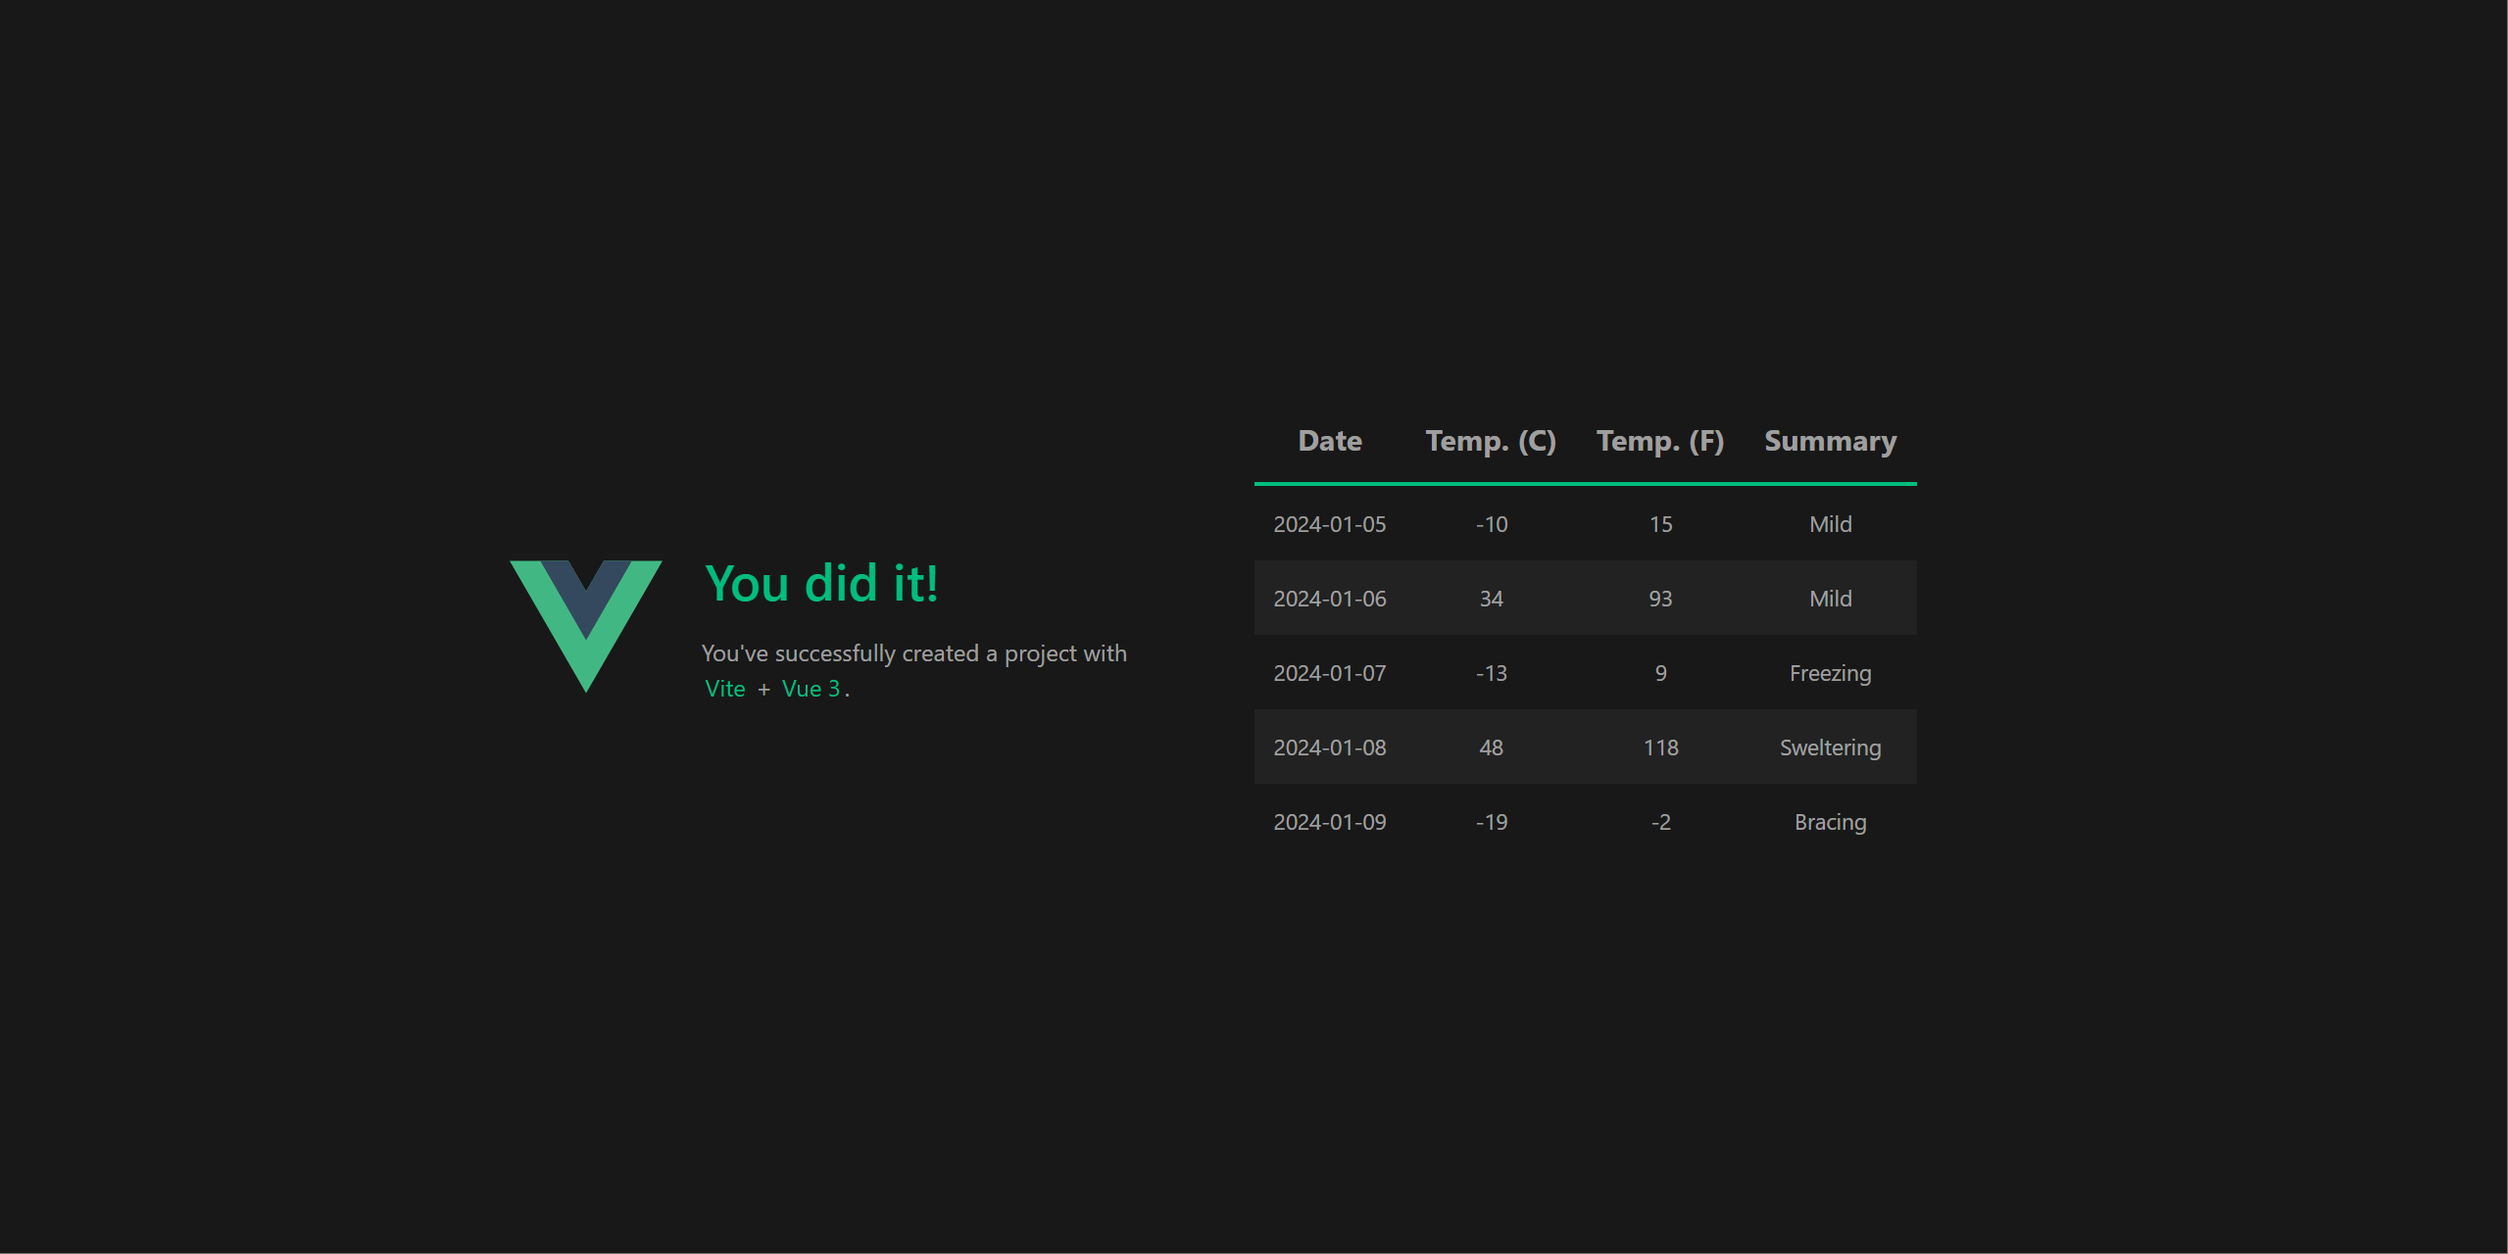
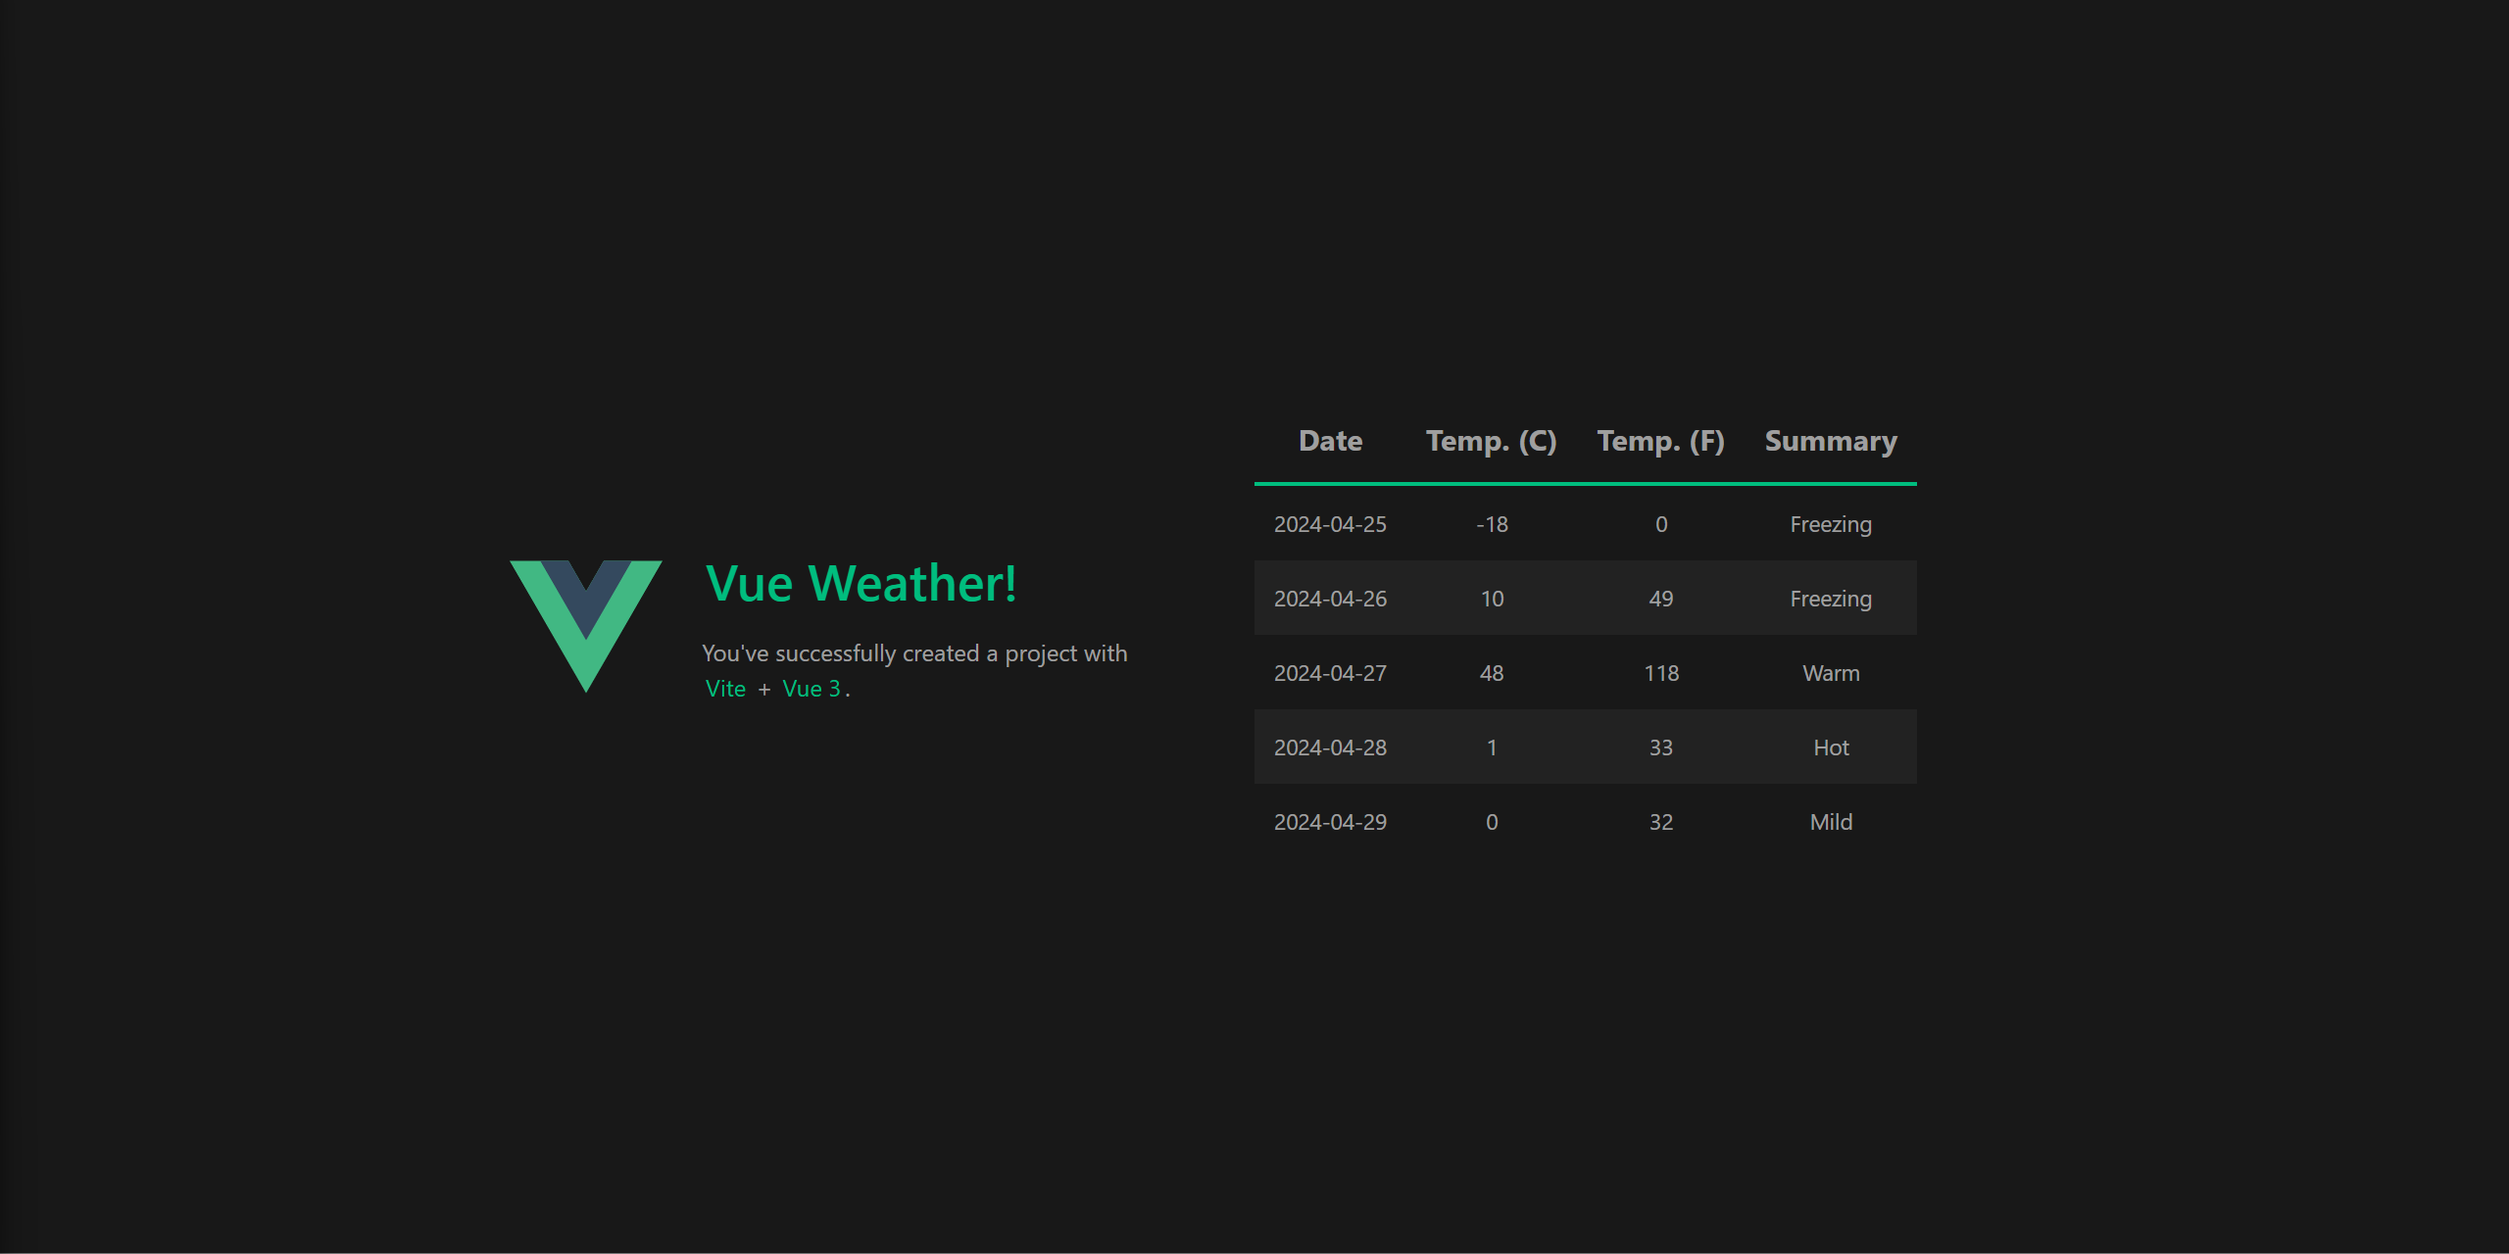
Update the nodejs content to align with the recent updates to the sample

diff --git a/docs/get-started/build-aspire-apps-with-nodejs.md b/docs/get-started/build-aspire-apps-with-nodejs.md
@@ -1,19 +1,24 @@
 ---
 title: Build .NET Aspire apps with Node.js
 description: Learn how to build .NET Aspire apps with Node.js.
-ms.date: 03/06/2024
+ms.date: 04/24/2024
 ---
 
 # Build .NET Aspire apps with Node.js
 
-In this article, you learn how to build .NET Aspire apps that use Node.js and Node Package Manager (`npm`). The sample app in this article demonstrates Angular, React, and Vue client experiences. Node.js support is available through the <xref:Aspire.Hosting.NodeAppHostingExtension.AddNodeApp%2A> API, while [`npm` apps](https://docs.npmjs.com/cli/using-npm/scripts) are available with <xref:Aspire.Hosting.NodeAppHostingExtension.AddNpmApp%2A>. The difference between these two APIs is that the former is used to host Node.js apps, while the latter is used to host apps that execute from a _package.json_ file's `scripts` section—and the corresponding `npm run <script-name>` command.
+In this article, you learn how to build .NET Aspire apps that use Node.js and Node Package Manager (`npm`). The sample app in this article demonstrates [Angular](https://angular.io), [React](https://react.dev/), and [Vue](https://vuejs.org/) client experiences. The following .NET Aspire APIs exist to support these scenarios:
+
+- [Node.js](https://nodejs.org/): <xref:Aspire.Hosting.NodeAppHostingExtension.AddNodeApp%2A>
+- [`npm` apps](https://docs.npmjs.com/cli/using-npm/scripts): <xref:Aspire.Hosting.NodeAppHostingExtension.AddNpmApp%2A>.
+
+The difference between these two APIs is that the former is used to host Node.js apps, while the latter is used to host apps that execute from a _package.json_ file's `scripts` section—and the corresponding `npm run <script-name>` command.
 
 > [!TIP]
 > The sample source code for this article is available on [GitHub](https://github.com/dotnet/aspire-samples/tree/main/samples/AspireWithJavaScript), and there are details available on the [Code Samples: .NET Aspire with Angular, React and Vue](/samples/dotnet/aspire-samples/aspire-angular-react-vue) page.
 
 [!INCLUDE [aspire-prereqs](../includes/aspire-prereqs.md)]
 
-Additionally, you need to install [Node.js](https://nodejs.org/en/download/) on your machine. The sample app in this article was built with Node.js version 20.7.0 and npm version 9.7.2. To verify your Node.js and npm versions, run the following commands:
+Additionally, you need to install [Node.js](https://nodejs.org/en/download/) on your machine. The sample app in this article was built with Node.js version 20.12.2 and npm version 10.5.1. To verify your Node.js and npm versions, run the following commands:
 
 ```nodejs
 node --version
@@ -22,6 +27,8 @@ node --version
 ```nodejs
 npm --version
 ```
+
+To download Node.js (including `npm`), see the [Node.js download page](https://nodejs.org/en/download/).
 
 ## Clone sample source code
 
@@ -48,18 +55,18 @@ From this directory, there are six child directories described in the following 
 
 ## Install client dependencies
 
-The sample app demonstrates how to use JavaScript client apps that are built on top of Node.js. Each client app was initially based on a template created by the `npm` CLI. The following table lists the template commands used to create each client app, along with the default port:
+The sample app demonstrates how to use JavaScript client apps that are built on top of Node.js. Each client app was written either using a `npm create` template command or manually. The following table lists the template commands used to create each client app, along with the default port:
 
-| App type                       | Create template command      | Default port |
-|--------------------------------|------------------------------|--------------|
-| [Angular](https://angular.dev) | `npm create @angular@latest` | 4200         |
-| [React](https://react.dev)     | `npm create reactapp@latest` | 3000         |
-| [Vue](https://vuejs.org)       | `npm create vue@latest`      | 5173         |
+| App type                       | Create template command       | Default port |
+|--------------------------------|-------------------------------|--------------|
+| [Angular](https://angular.dev) | `npm create @angular@latest`  | 4200         |
+| [React](https://react.dev)     | Didn't use a template.        | PORT env var |
+| [Vue](https://vuejs.org)       | `npm create vue@latest`       | 5173         |
 
 > [!TIP]
 > You don't need to run any of these commands, since the sample app already includes the clients. Instead, this is a point of reference from which the clients were created. For more information, see [npm-init](https://docs.npmjs.com/cli/commands/npm-init).
 
-To run the app, you first need to install the dependencies for each client. To do so, navigate to each client folder and run `npm install` (or the install alias `npm i`) commands.
+To run the app, you first need to install the dependencies for each client. To do so, navigate to each client folder and run [`npm install` (or the install alias `npm i`) commands](https://docs.npmjs.com/cli/v10/commands/npm-install).
 
 ### Install Angular dependencies
 
@@ -67,7 +74,7 @@ To run the app, you first need to install the dependencies for each client. To d
 npm i ./AspireJavaScript.Angular/
 ```
 
-For more information on the Angular app, see [Angular client](#explore-the-angular-client).
+For more information on the Angular app, see [explore the Angular client](#explore-the-angular-client).
 
 ### Install React dependencies
 
@@ -75,7 +82,7 @@ For more information on the Angular app, see [Angular client](#explore-the-angul
 npm i ./AspireJavaScript.React/
 ```
 
-For more information on the React app, see [React client](#explore-the-react-client).
+For more information on the React app, see [explore the React client](#explore-the-react-client).
 
 ### Install Vue dependencies
 
@@ -93,7 +100,7 @@ To run the sample app, call the [dotnet run](/dotnet/core/tools/dotnet-run) comm
 dotnet run --project ./AspireJavaScript.AppHost/AspireJavaScript.AppHost.csproj
 ```
 
-The .NET Aspire dashboard launches in your default browser, and each client app endpoint displays under the **Endpoints** column of the **Resources** page. The following image depicts the dashboard for this sample app:
+The [.NET Aspire dashboard](../fundamentals/dashboard/overview.md) launches in your default browser, and each client app endpoint displays under the **Endpoints** column of the **Resources** page. The following image depicts the dashboard for this sample app:
 
 :::image type="content" source="media/aspire-dashboard-with-nodejs.png" lightbox="media/aspire-dashboard-with-nodejs.png" alt-text=".NET Aspire dashboard with multiple JavaScript client apps.":::
 
@@ -111,11 +118,14 @@ The preceding code:
 
 - Creates a <xref:Aspire.Hosting.DistributedApplicationBuilder>.
 - Adds the "weatherapi" service as a project to the app host.
+  - Marks the HTTP endpoints as external.
 - With a reference to the "weatherapi" service, adds the "angular", "react", and "vue" client apps as npm apps.
   - Each client app is configured to run on a different container port, and uses the `PORT` environment variable to determine the port.
   - All client apps also rely on a _Dockerfile_ to build their container image and are configured to express themselves in the publishing manifest as a container from the `PublishAsDockerfile`.
 
 For more information on inner-loop networking, see [.NET Aspire inner-loop networking overview](../fundamentals/networking-overview.md). For more information on deploying apps, see [.NET Aspire manifest format for deployment tool builders](../deployment/manifest-format.md).
+
+When the app host orchestrates the start up of each client app, it uses the `npm run start` command. This command is defined in the `scripts` section of the _package.json_ file for each client app. The `start` script is used to start the client app on the specified port. Each client app relies on a proxy to request the "weatherapi" service. The proxy is configured in the _proxy.conf.js_ file for the Angular client, _webpack.config.js_ for the React client, and in the _vite.config.ts_ file for the Vue client.
 
 ## Explore the Angular client
 
@@ -151,19 +161,20 @@ To visualize the Angular client app, navigate to the "angular" endpoint in the .
 
 ## Explore the React client
 
-There are several key modifications from the original React template. The first is the addition of environment variables in the app host. This file is used to set two React-specific environment variables:
+The React app wasn't written using a template, and instead was written manually. The complete source code can be found in the [dotnet/aspire-samples repository](https://github.com/dotnet/aspire-samples/tree/main/samples/AspireWithJavaScript/AspireJavaScript.React). Some of the key points of interest are found in the _src/App.js_ file:
 
-- `BROWSER=none`: This environment variable is used to prevent the React client app from launching a browser window.
-- `REACT_APP_WEATHERAPI_URL`: This environment variable is used to set the URL for the "weatherapi" service.
+:::code language="javascript" source="~/aspire-samples/samples/AspireWithJavaScript/AspireJavaScript.React/src/App.js":::
 
-The preceding configuration sets the `REACT_APP_WEATHERAPI_URL` environment variable from the `services__weatherapi__http__0` environment variable. This environment variable is set by the .NET Aspire app host, and is used to resolve the "weatherapi" service endpoint.
+The `App` function is the entry point for the React client app. It uses the `useState` and `useEffect` hooks to manage the state of the weather forecast data. The `fetch` API is used to make an HTTP request to the `/api/WeatherForecast` endpoint. The response is then converted to JSON and set as the state of the weather forecast data.
 
-> [!IMPORTANT]
-> For custom environment variables to be available in the React client app, they must be prefixed with `REACT_APP_`. For more information, see [Adding custom environment variables](https://create-react-app.dev/docs/adding-custom-environment-variables/).
+:::code language="javascript" source="~/aspire-samples/samples/AspireWithJavaScript/AspireJavaScript.React/webpack.config.js":::
 
-In addition to the aforementioned environment variables, the React app automatically picks up the `PORT` environment variable and uses it to determine the port on which to run. With the environment variables configured, the React client app needs to call the `/api/WeatherForecast` endpoint to retrieve the weather forecast data. The next update is to the _index.js_ file. The file passes the `REACT_APP_WEATHERAPI_URL` environment variable to the `App` component as the `weatherApi` property.
+The preceding code defines the `module.exports` as follows:
 
-:::code language="javascript" source="~/aspire-samples/samples/AspireWithJavaScript/AspireJavaScript.React/src/index.js":::
+- The `entry` property is set to the _src/index.js_ file.
+- The `devServer` relies on a proxy to forward requests to the "weatherapi" service, sets the port to the `PORT` environment variable, and allows all hosts.
+- The `output` results in a _dist_ folder with a _bundle.js_ file.
+- The `plugins` set the _src/index.html_ file as the template, and expose the _favicon.ico_ file.
 
 The final updates are to the following files:
 
@@ -178,18 +189,15 @@ To visualize the React client app, navigate to the "react" endpoint in the .NET 
 
 ## Explore the Vue client
 
-There are several key modifications from the original Vue template. The first is the addition of an environment variables in the app host. This file configures a `VITE_WEATHERAPI_URL` environment variable from the `services__weatherapi__http__0` environment variable. This environment variable is set by the .NET Aspire app host and is used to resolve the "weatherapi" service endpoint.
+There are several key modifications from the original Vue template. The primary updates were the addition of the `fetch` call in the _TheWelcome.vue_ file to retrieve the weather forecast data from the `/api/WeatherForecast` endpoint. The following code snippet demonstrates the `fetch` call:
 
-> [!IMPORTANT]
-> For custom environment variables to be available in the Vue client app running on Vite, they must be prefixed with `VITE_`. For more information, see [Environment Variables and Modes](https://vitejs.dev/guide/env-and-mode#env-files).
+:::code language="typescript" source="~/aspire-samples/samples/AspireWithJavaScript/AspireJavaScript.Vue/src/componets/TheWelcome.vue":::
 
-Environment type definitions are available in the _env.d.ts_ file. This file is referenced in the _tsconfig.app.json_ file, and is used to provide type information for the `process.env` object.
-
-:::code language="typescript" source="~/aspire-samples/samples/AspireWithJavaScript/AspireJavaScript.Vue/env.d.ts":::
-
-To set the server port, the Vue client app uses the `PORT` environment variable. This is achieved by updating the _vite.config.js_ file:
+As the `TheWelcome` component is `mounted`, it calls the `/api/weatherforecast` endpoint to retrieve the weather forecast data. The response is then set as the `forecasts` data property. To set the server port, the Vue client app uses the `PORT` environment variable. This is achieved by updating the _vite.config.js_ file:
 
 :::code language="typescript" source="~/aspire-samples/samples/AspireWithJavaScript/AspireJavaScript.Vue/vite.config.ts":::
+
+Additionally, the Vite config specifies the `server.proxy` property to forward requests to the "weatherapi" service. This is achieved by using the `services__weatherapi__http__0` environment variable, which is set by the .NET Aspire app host.
 
 The final update from the template is made to the _TheWelcome.vue_ file. This file calls the `/api/WeatherForecast` endpoint to retrieve the weather forecast data, and displays the data in a table. It includes [CSS, HTML, and TypeScript updates](https://github.com/dotnet/aspire-samples/blob/ef6868b0999c6eea3d42a10f2b20433c5ea93720/samples/AspireWithJavaScript/AspireJavaScript.Vue/src/components/TheWelcome.vue).
 
@@ -198,6 +206,16 @@ The final update from the template is made to the _TheWelcome.vue_ file. This fi
 To visualize the Vue client app, navigate to the "vue" endpoint in the .NET Aspire dashboard. The following image depicts the Vue client app:
 
 :::image type="content" source="media/vue-app.png" lightbox="media/vue-app.png" alt-text="Vue client app with fake forecast weather data displayed as a table.":::
+
+## Deployment considerations
+
+The sample source code for this article is designed to run locally. It has also been developed to deploy each client app as a container image. The _Dockerfile_ for each client app is used to build the container image. Each _Dockefile_ is identical, using a multistage build to create a production-ready container image.
+
+:::code language="dockerfile" source="~/aspire-samples/samples/AspireWithJavaScript/AspireJavaScript.Angular/Dockerfile":::
+
+The client apps are currently configured to run as true SPA apps, and are not configured to run in a server-side rendered (SSR) mode. They sit behind **nginx**, which is used to serve the static files. They leverage a simple _default.conf.template_ file to configure **nginx** to proxy requests to the client app.
+
+:::code source="~/aspire-samples/samples/AspireWithJavaScript/AspireJavaScript.Angular/default.conf.template":::
 
 ## Summary
 
